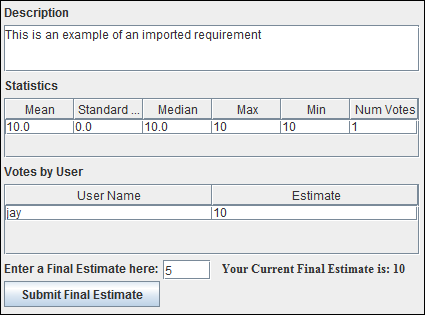
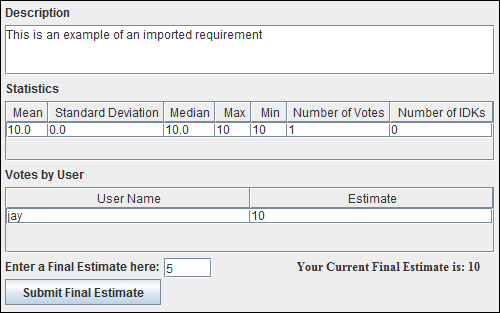
Edit images to match most recent changes to EndGamePanel. Change image descriptions on EndGameHelp. Got rid of unnecessary code in CreateGameHelp

Changed region(s): [[0.0, 0.0288, 1.0, 0.9776], [0.0, 0.0, 0.1835, 0.0575]]

diff --git a/PlanningPoker/src/edu/wpi/cs/wpisuitetng/modules/planningpoker/view/help/CreateGameHelp.java b/PlanningPoker/src/edu/wpi/cs/wpisuitetng/modules/planningpoker/view/help/CreateGameHelp.java
@@ -33,7 +33,6 @@ import javax.swing.SpringLayout;
 public class CreateGameHelp extends JScrollPane implements IHelpPanel {
 	JLabel headingLabel;
 	JLabel gameInformationHeading;
-	//JTextArea createGameExplanation;
 	JLabel gameInformationpic;
 	JTextArea gameInformationExplanation;
 	JLabel noRequirementsHeading;
@@ -69,19 +68,6 @@ public class CreateGameHelp extends JScrollPane implements IHelpPanel {
 		headingLabel = new JLabel("Create and Edit Game Help");
 		headingLabel.setFont(makeFont(8));
 
-//		//Add explanation for creating games
-//		createGameExplanation = new JTextArea();
-//		createGameExplanation.setText("The Create Game menu allows you to create a Planning "
-//				+ "Poker game which you can save for further editing or start immediately. "
-//				+ "Games that have been saved can be found in Pending Games in the Game Overview"
-//				+ " tab and games that have been started can be found in Active GAmes in the Game "
-//				+ "Overview tab.");
-//		
-//		createGameExplanation.setEditable(false);
-//		createGameExplanation.setBackground(null);
-//		createGameExplanation.setWrapStyleWord(true);
-//		createGameExplanation.setLineWrap(true);
-//		
 		//Add heading label for gameInformationHeading	
 		gameInformationHeading = new JLabel("Initializing a Game");
 		gameInformationHeading.setFont(makeFont(5)); 
@@ -230,9 +216,6 @@ public class CreateGameHelp extends JScrollPane implements IHelpPanel {
 		 */
 		layout.putConstraint(SpringLayout.NORTH, headingLabel, 5, SpringLayout.NORTH, view);
 		layout.putConstraint(SpringLayout.HORIZONTAL_CENTER, headingLabel, 0, SpringLayout.HORIZONTAL_CENTER, view);
-		
-		//layout.putConstraint(SpringLayout.NORTH, createGameExplanation, 5, SpringLayout.SOUTH, headingLabel);
-		//layout.putConstraint(SpringLayout.HORIZONTAL_CENTER, createGameExplanation, 0, SpringLayout.HORIZONTAL_CENTER, view);
 		
 		//Game Information 
 		layout.putConstraint(SpringLayout.NORTH, gameInformationHeading, 5, SpringLayout.SOUTH, headingLabel); // will change to createGameExplanation when working

diff --git a/PlanningPoker/src/edu/wpi/cs/wpisuitetng/modules/planningpoker/view/help/EndGameHelp.java b/PlanningPoker/src/edu/wpi/cs/wpisuitetng/modules/planningpoker/view/help/EndGameHelp.java
@@ -78,9 +78,11 @@ public class EndGameHelp extends JScrollPane implements IHelpPanel {
 		
 		//Add the explanation for the statistics image
 		statsExplanation = new JTextArea();
-		statsExplanation.setText("The right half displays statistics the description of the selected requirement,"
-				+ "as well as statistics on the estimates. \"I don't know\" counts as a 0 for statistics calculations."
-				+ "The creator of the game is able to submit a final estimate for the requirement at the bottom."
+		statsExplanation.setText("The right half displays the statistics and description of the selected requirement. "
+				+ "The mean, median, standard deviation, min and max of all votes, the total votes and number of "
+				+ "\"I don't know\" votes are displayed. "
+				+ " \"I don't know\" counts as a 0 for statistics calculations. Each user's votes are also displayed. "
+				+ "The creator of the game is able to submit a final estimate for the requirement at the bottom. "
 				+ "This will get saved in the requirement manager.");
 		
 		statsExplanation.setEditable(false);
